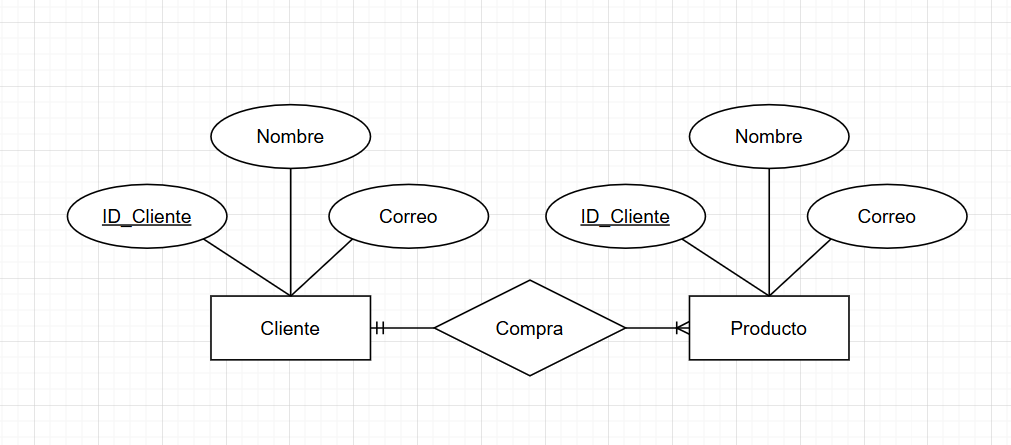
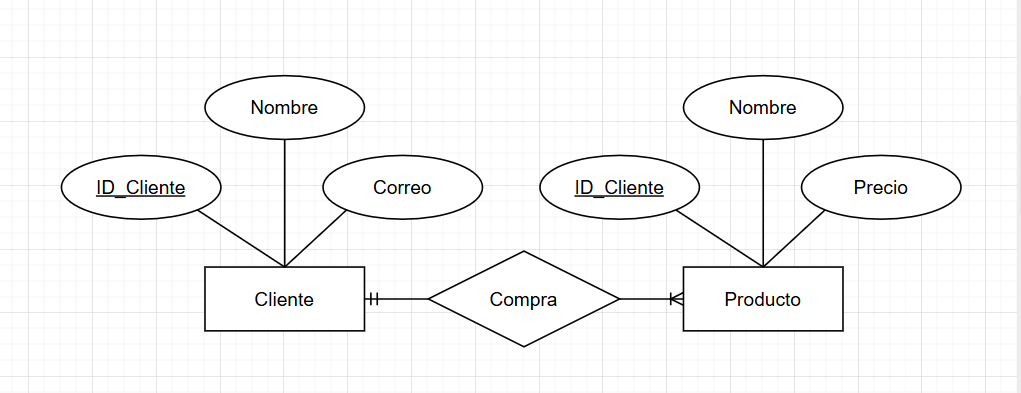
up: content

diff --git a/_sass/addon/diagram.scss b/_sass/addon/diagram.scss
@@ -3,6 +3,7 @@
   align-items: center;
   font-family: sans-serif;
   margin: 8px 0 14px 0;
+  overflow: auto;
   // Remueve todos los márgenes y separaciones entre figuras
   > * {
     margin: 0;

diff --git a/_posts/bases-de-datos/relacionales/modelado-de-datos/2023-03-01-modelo-conceptual-en-drawio.md b/_posts/bases-de-datos/relacionales/modelado-de-datos/2023-03-01-modelo-conceptual-en-drawio.md
@@ -2,6 +2,9 @@
 title: "Crear un Modelo Conceptual en Draw.io"
 author: enidev911
 description: "En este artículo aprenderás a crear **un modelo conceptual** de base de datos utilizando la herramienta gratuita [draw.io (ahora diagrams.net)](https://draw.io){:target='_blank'}. Este tipo de modelo permite representar entidades, atributos y relaciones antes de implementar tu base de datos en sistemas como MySQL, PostgreSQL o SQLite."
+image:
+  path: posters/drawio-diagramas.webp
[1 lines of base64/hex data omitted]
 categories: [Bases de Datos Relacionales, "Modelado de Datos"]
 tags: [Bases de Datos, "Modelado de Datos"]
 ---
@@ -21,12 +24,14 @@ Un modelo conceptual es la representación abstracta de los datos relevantes de 
 
 Existen muchas herramientas para crear diagramas, pero en este artículo vamos a utilizar [Draw.io](https://draw.io){:target='_blank'}, una herramienta gratuita para crear diagramas. Permite exportar, compartir y colaborar fácilmente, lo que lo convierte en una excelente opción para crear modelos conceptuales. Para ello, sigue estos pasos:
 
-1. Accede a [https://draw.io](https://draw.io){:target='_blank'}
-2. Selecciona **"Decide later"** si no deseas usar Google Drive o dispositivos locales.
-3. Crea un nuevo archivo en blanco.
-4. Ve al menú izquierdo y selecciona:
-   - **Entity Relation** para trabajar con símbolos de bases de datos.
-   - Usa rectángulos para entidades, óvalos para atributos y rombos para relaciones.
+__1\. Accede a [https://draw.io](https://draw.io){:target='_blank'}__
+
+![Pantalla principal de Draw.io](diagramas/drawio-main.webp)
+_pantalla principal_
+
+__2\. Ve al menú izquierdo y selecciona__
+  - **Entity Relation** para trabajar con símbolos de bases de datos.
+  - Usa rectángulos para entidades, óvalos para atributos y rombos para relaciones.
 
 ### __Entidades, Atributos y Relaciones__
 
@@ -68,9 +73,9 @@ __4. Relaciones__
   <div class="entity">Producto</div>
 </div>
 
-### __Ejemplo: Modelo Conceptual de Cliente y Producto__
+### __Ejemplo de Modelo Conceptual de Cliente y Producto__
 
-En este ejemplo definiremos dos entidades principales y su relación:
+En este ejemplo básico definiremos dos entidades principales y su relación:
 
 - __Entidad__: `Cliente`
    - __Atributos__: `ID_Cliente`, `Nombre`, `Correo`
@@ -103,6 +108,10 @@ Para finalizar vamos a definir los atributos de la entidad cliente, añadimos la
 Ahora repite el proceso en la otra entidad `Producto` y el resultado sería el siguiente:
 
 ![Modelo de ejemplo](diagramas/drawio-cliente-producto.webp)
+
+Podemos aplicar distintos estilos utilizando el cajón de herramientas de la forma seleccionada.
+
+![Aplicar estilos](diagramas/drawio-aplicar-estilos.webp)
 
 ## __Buenas Prácticas al Diseñar__
 
